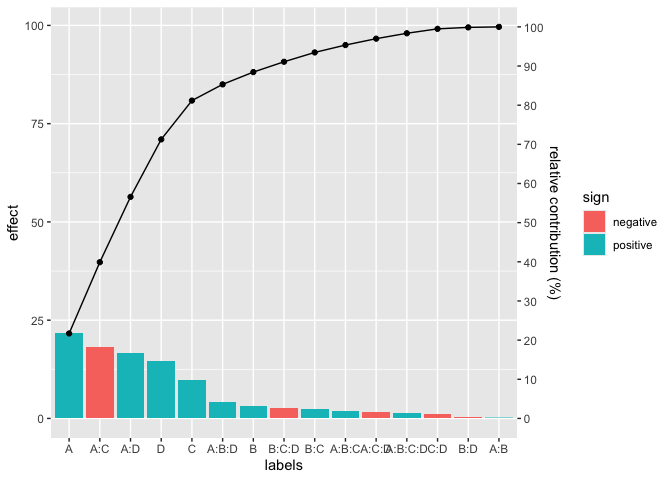
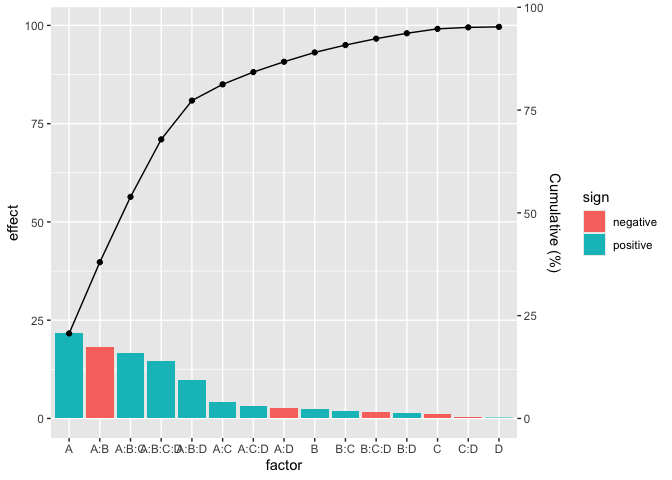
docs: add CRAN/r-universe badges and update README output

diff --git a/README.md b/README.md
@@ -5,6 +5,11 @@
 
 <!-- badges: start -->
 
+[![Downloads](https://cranlogs.r-pkg.org/badges/adas.utils)](https://cran.r-project.org/package=adas.utils)
+[![CRAN
+status](https://www.r-pkg.org/badges/version/adas.utils)](https://CRAN.R-project.org/package=adas.utils)
+[![R-universe
+version](https://pbosetti.r-universe.dev/adas.utils/badges/version)](https://pbosetti.r-universe.dev/adas.utils)
 <!-- badges: end -->
 
 The goal of adas.utils is to provide some utility functions to be used
@@ -96,6 +101,9 @@ tibble(
   cat=LETTERS[1:length(val)]
   ) %>%
   pareto_chart(labels=cat, values=val)
+#> Warning in pareto_chart.data.frame(., labels = cat, values = val): 'pareto_chart.data.frame' is deprecated.
+#> Use 'geom_pareto' instead.
+#> See help("Deprecated")
 ```
 
 <img src="man/figures/README-unnamed-chunk-6-1.png" width="50%" />
@@ -153,7 +161,7 @@ fp_design_matrix(3, rep=2) %>%
 #>  Fraction:  NA 
 #>  Type:  composite 
 #>  
-#> # A tibble: 45 × 8
+#> # A tibble: 33 × 8
 #>    StdOrder RunOrder .treat  .rep     A     B     C Y    
 #>       <int>    <int> <chr>  <int> <dbl> <dbl> <dbl> <lgl>
 #>  1        1       10 (1)        1    -1    -1    -1 NA   
@@ -166,7 +174,7 @@ fp_design_matrix(3, rep=2) %>%
 #>  8        8       13 abc        1     1     1     1 NA   
 #>  9        9       12 (1)        2    -1    -1    -1 NA   
 #> 10       10       11 a          2     1    -1    -1 NA   
-#> # ℹ 35 more rows
+#> # ℹ 23 more rows
 ```
 
 # Author
